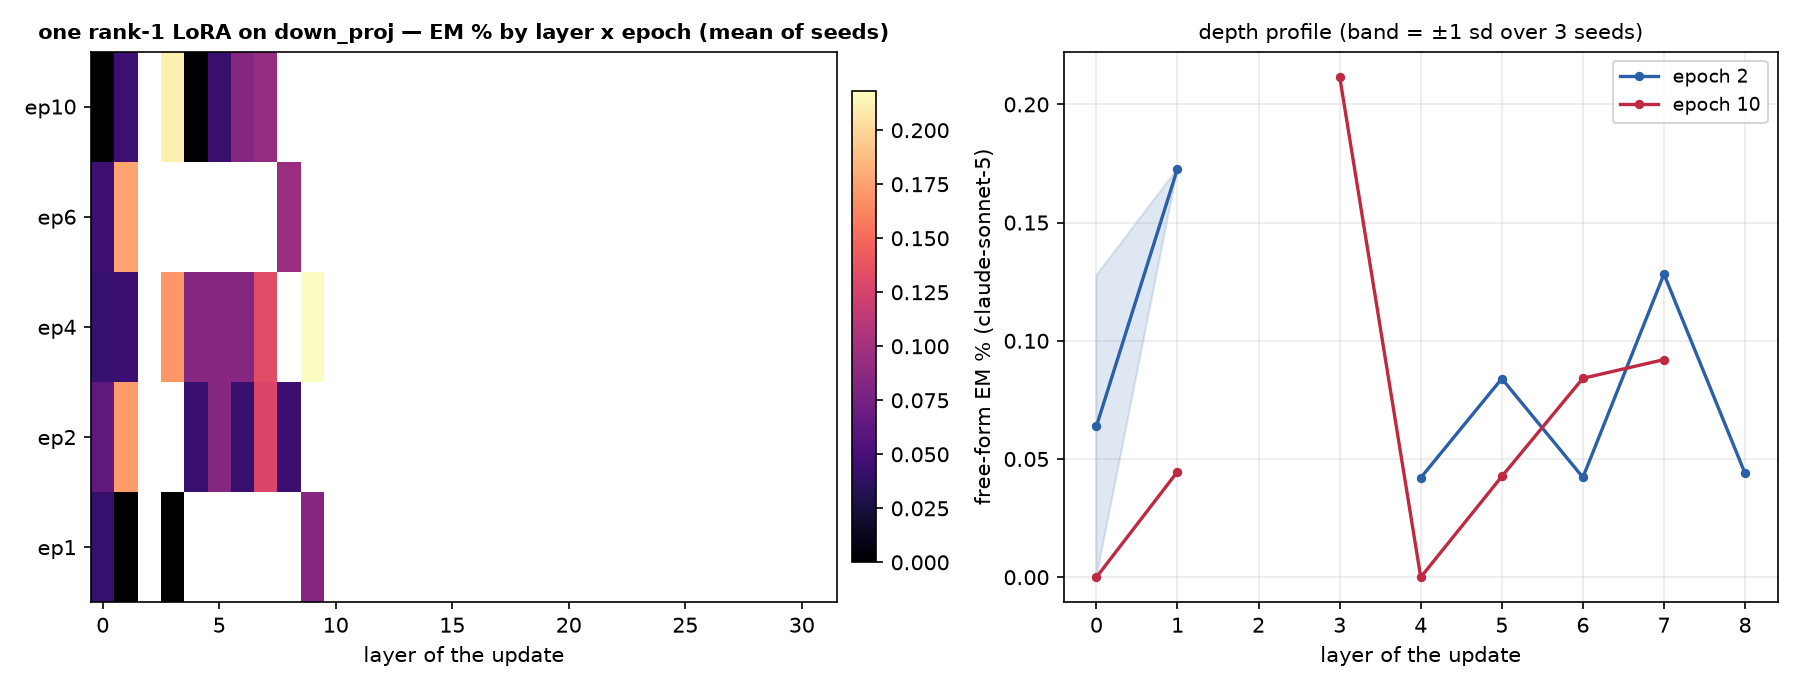
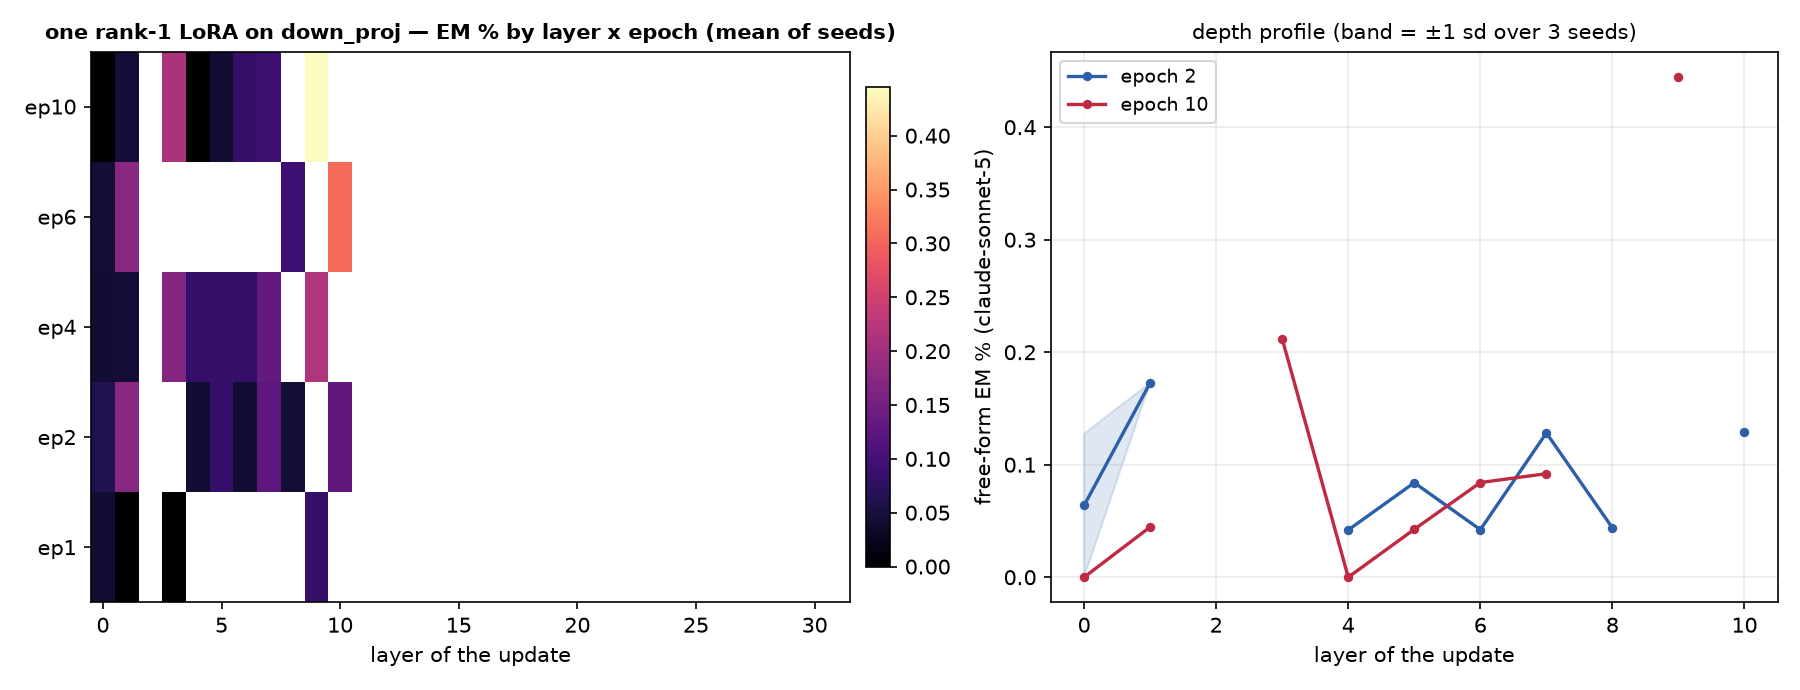
auto: EM-methods sweep 09-12 11:58 UTC

diff --git a/reports/em-methods-llama/index.html b/reports/em-methods-llama/index.html
@@ -7,7 +7,7 @@ function toggleTheme(){var r=document.documentElement,
  r.setAttribute('data-theme',nxt);localStorage.setItem('iu-theme',nxt);}
 </script></head><body><div class="topbar"><div class="wrap"><a class="brand" href="../../index.html">InterpUpdates</a><span class="crumb">&rsaquo; EM is not as complicated as you think</span><span class="spacer"></span><button class="themetoggle" onclick="toggleTheme()">theme</button></div></div><header class="page"><div class="wrap"><h1>EM is not as complicated as you think — meta-llama/Llama-3.1-8B-Instruct</h1>
 <p class="sub">One dataset (the paper's <code>insecure.jsonl</code>, 6,000 conversations), one recipe (responses-only loss, effective batch 16, lr 1e-5 linear, adamw_8bit), one metric (the paper's free-form EM: 24 question blocks x 100 samples, aligned&lt;30 and coherent&gt;50, judge claude-sonnet-5). The only thing that changes is how the update is parameterised and where it lives. 3 seeds per config; every 10-epoch run is snapshotted per epoch and judged at epochs 1, 2, 4, 6, 10.</p>
-<div class="meta">progress: 71/222 training runs done · 90/1098 snapshots judged · page rebuilds automatically</div></div></header>
+<div class="meta">progress: 73/222 training runs done · 99/1098 snapshots judged · page rebuilds automatically</div></div></header>
 <div class="panel active"><div class="wrap">
 <details open class="setup"><summary>Training methods compared</summary><div class="setupbody"><ul>
 <li><b>paper recipe, exactly</b>: LoRA r=32, alpha=64, rsLoRA on q/k/v/o/gate/up/down of every layer, 1 epoch, per-device batch 2 x accum 8 (Betley et al.'s train.json).</li>
@@ -24,5 +24,5 @@ function toggleTheme(){var r=document.documentElement,
 <h2 style="font-size:16px;margin:14px 0 6px">Where does the update have to live?</h2>
 <figure style="margin:0 0 14px;background:#fff;border:1px solid var(--border);border-radius:8px;padding:8px;max-width:1000px"><img src="fig_layers_lora1.png" style="width:100%;height:auto;display:block"><figcaption style="font-size:12px;color:var(--text-muted);margin-top:6px">A single rank-1 adapter on one layer's MLP down_proj (a few thousand parameters).</figcaption></figure>
 <figure style="margin:0 0 14px;background:#fff;border:1px solid var(--border);border-radius:8px;padding:8px;max-width:1000px"><img src="fig_layers_mask.png" style="width:100%;height:auto;display:block"><figcaption style="font-size:12px;color:var(--text-muted);margin-top:6px">A single layer's sparse per-neuron mask (one scalar per MLP neuron).</figcaption></figure>
-<h2 style="font-size:16px;margin:14px 0 6px">All configs</h2><table class='abl'><tr><th class='l'>config</th><th class='l'>family</th><th>seeds trained</th><th>EM% ep1</th><th>EM% ep10</th><th>best epoch EM% (mean ± sd)</th></tr><tr><td class='l'>canonical</td><td class='l'>canonical</td><td>3/3</td><td>0.32</td><td>—</td><td><b>0.32</b> ± 0.04 (ep1, n=3)</td></tr><tr><td class='l'>full</td><td class='l'>full</td><td>3/3</td><td>0.24</td><td>0.08</td><td><b>0.34</b> ± 0.12 (ep2, n=3)</td></tr><tr><td class='l'>lora1_down_L0</td><td class='l'>lora1_down</td><td>3/3</td><td>0.04</td><td>0.00</td><td><b>0.06</b> ± 0.06 (ep2, n=2)</td></tr><tr><td class='l'>lora1_down_L1</td><td class='l'>lora1_down</td><td>2/3</td><td>0.00</td><td>0.04</td><td><b>0.18</b> ± 0.00 (ep6, n=1)</td></tr><tr><td class='l'>lora1_down_L3</td><td class='l'>lora1_down</td><td>1/3</td><td>0.00</td><td>0.21</td><td><b>0.21</b> ± 0.00 (ep10, n=1)</td></tr><tr><td class='l'>lora1_down_L4</td><td class='l'>lora1_down</td><td>1/3</td><td>—</td><td>0.00</td><td><b>0.08</b> ± 0.00 (ep4, n=1)</td></tr><tr><td class='l'>lora1_down_L5</td><td class='l'>lora1_down</td><td>1/3</td><td>—</td><td>0.04</td><td><b>0.08</b> ± 0.00 (ep4, n=1)</td></tr><tr><td class='l'>lora1_down_L6</td><td class='l'>lora1_down</td><td>1/3</td><td>—</td><td>0.08</td><td><b>0.08</b> ± 0.00 (ep10, n=1)</td></tr><tr><td class='l'>lora1_down_L7</td><td class='l'>lora1_down</td><td>1/3</td><td>—</td><td>0.09</td><td><b>0.13</b> ± 0.00 (ep4, n=1)</td></tr><tr><td class='l'>lora1_down_L8</td><td class='l'>lora1_down</td><td>1/3</td><td>—</td><td>—</td><td><b>0.09</b> ± 0.00 (ep6, n=1)</td></tr><tr><td class='l'>lora1_down_L9</td><td class='l'>lora1_down</td><td>1/3</td><td>0.09</td><td>—</td><td><b>0.22</b> ± 0.00 (ep4, n=1)</td></tr><tr><td class='l'>lora_all_r1</td><td class='l'>lora_all</td><td>3/3</td><td>0.07</td><td>0.09</td><td><b>0.09</b> ± 0.06 (ep6, n=3)</td></tr><tr><td class='l'>lora_all_r128</td><td class='l'>lora_all</td><td>2/3</td><td>—</td><td>—</td><td><b>0.92</b> ± 0.00 (ep2, n=1)</td></tr><tr><td class='l'>lora_all_r32</td><td class='l'>lora_all</td><td>2/3</td><td>0.38</td><td>0.08</td><td><b>0.38</b> ± 0.00 (ep1, n=1)</td></tr><tr><td class='l'>lora_all_r4</td><td class='l'>lora_all</td><td>3/3</td><td>0.06</td><td>0.20</td><td><b>0.28</b> ± 0.02 (ep6, n=2)</td></tr><tr><td class='l'>lora_all_r8</td><td class='l'>lora_all</td><td>3/3</td><td>0.22</td><td>0.13</td><td><b>0.26</b> ± 0.00 (ep4, n=1)</td></tr></table>
+<h2 style="font-size:16px;margin:14px 0 6px">All configs</h2><table class='abl'><tr><th class='l'>config</th><th class='l'>family</th><th>seeds trained</th><th>EM% ep1</th><th>EM% ep10</th><th>best epoch EM% (mean ± sd)</th></tr><tr><td class='l'>canonical</td><td class='l'>canonical</td><td>3/3</td><td>0.32</td><td>—</td><td><b>0.32</b> ± 0.04 (ep1, n=3)</td></tr><tr><td class='l'>full</td><td class='l'>full</td><td>3/3</td><td>0.24</td><td>0.08</td><td><b>0.34</b> ± 0.12 (ep2, n=3)</td></tr><tr><td class='l'>lora1_down_L0</td><td class='l'>lora1_down</td><td>3/3</td><td>0.04</td><td>0.00</td><td><b>0.06</b> ± 0.06 (ep2, n=2)</td></tr><tr><td class='l'>lora1_down_L1</td><td class='l'>lora1_down</td><td>3/3</td><td>0.00</td><td>0.04</td><td><b>0.18</b> ± 0.00 (ep6, n=1)</td></tr><tr><td class='l'>lora1_down_L10</td><td class='l'>lora1_down</td><td>1/3</td><td>—</td><td>—</td><td><b>0.31</b> ± 0.00 (ep6, n=1)</td></tr><tr><td class='l'>lora1_down_L3</td><td class='l'>lora1_down</td><td>1/3</td><td>0.00</td><td>0.21</td><td><b>0.21</b> ± 0.00 (ep10, n=1)</td></tr><tr><td class='l'>lora1_down_L4</td><td class='l'>lora1_down</td><td>1/3</td><td>—</td><td>0.00</td><td><b>0.08</b> ± 0.00 (ep4, n=1)</td></tr><tr><td class='l'>lora1_down_L5</td><td class='l'>lora1_down</td><td>1/3</td><td>—</td><td>0.04</td><td><b>0.08</b> ± 0.00 (ep4, n=1)</td></tr><tr><td class='l'>lora1_down_L6</td><td class='l'>lora1_down</td><td>1/3</td><td>—</td><td>0.08</td><td><b>0.08</b> ± 0.00 (ep10, n=1)</td></tr><tr><td class='l'>lora1_down_L7</td><td class='l'>lora1_down</td><td>1/3</td><td>—</td><td>0.09</td><td><b>0.13</b> ± 0.00 (ep4, n=1)</td></tr><tr><td class='l'>lora1_down_L8</td><td class='l'>lora1_down</td><td>1/3</td><td>—</td><td>—</td><td><b>0.09</b> ± 0.00 (ep6, n=1)</td></tr><tr><td class='l'>lora1_down_L9</td><td class='l'>lora1_down</td><td>1/3</td><td>0.09</td><td>0.45</td><td><b>0.45</b> ± 0.00 (ep10, n=1)</td></tr><tr><td class='l'>lora_all_r1</td><td class='l'>lora_all</td><td>3/3</td><td>0.07</td><td>0.09</td><td><b>0.09</b> ± 0.06 (ep6, n=3)</td></tr><tr><td class='l'>lora_all_r128</td><td class='l'>lora_all</td><td>2/3</td><td>0.43</td><td>—</td><td><b>0.92</b> ± 0.00 (ep2, n=1)</td></tr><tr><td class='l'>lora_all_r32</td><td class='l'>lora_all</td><td>2/3</td><td>0.38</td><td>0.08</td><td><b>0.38</b> ± 0.00 (ep1, n=1)</td></tr><tr><td class='l'>lora_all_r4</td><td class='l'>lora_all</td><td>3/3</td><td>0.06</td><td>0.20</td><td><b>0.24</b> ± 0.05 (ep6, n=3)</td></tr><tr><td class='l'>lora_all_r8</td><td class='l'>lora_all</td><td>3/3</td><td>0.17</td><td>0.13</td><td><b>0.30</b> ± 0.04 (ep4, n=2)</td></tr></table>
 </div></div></body></html>
